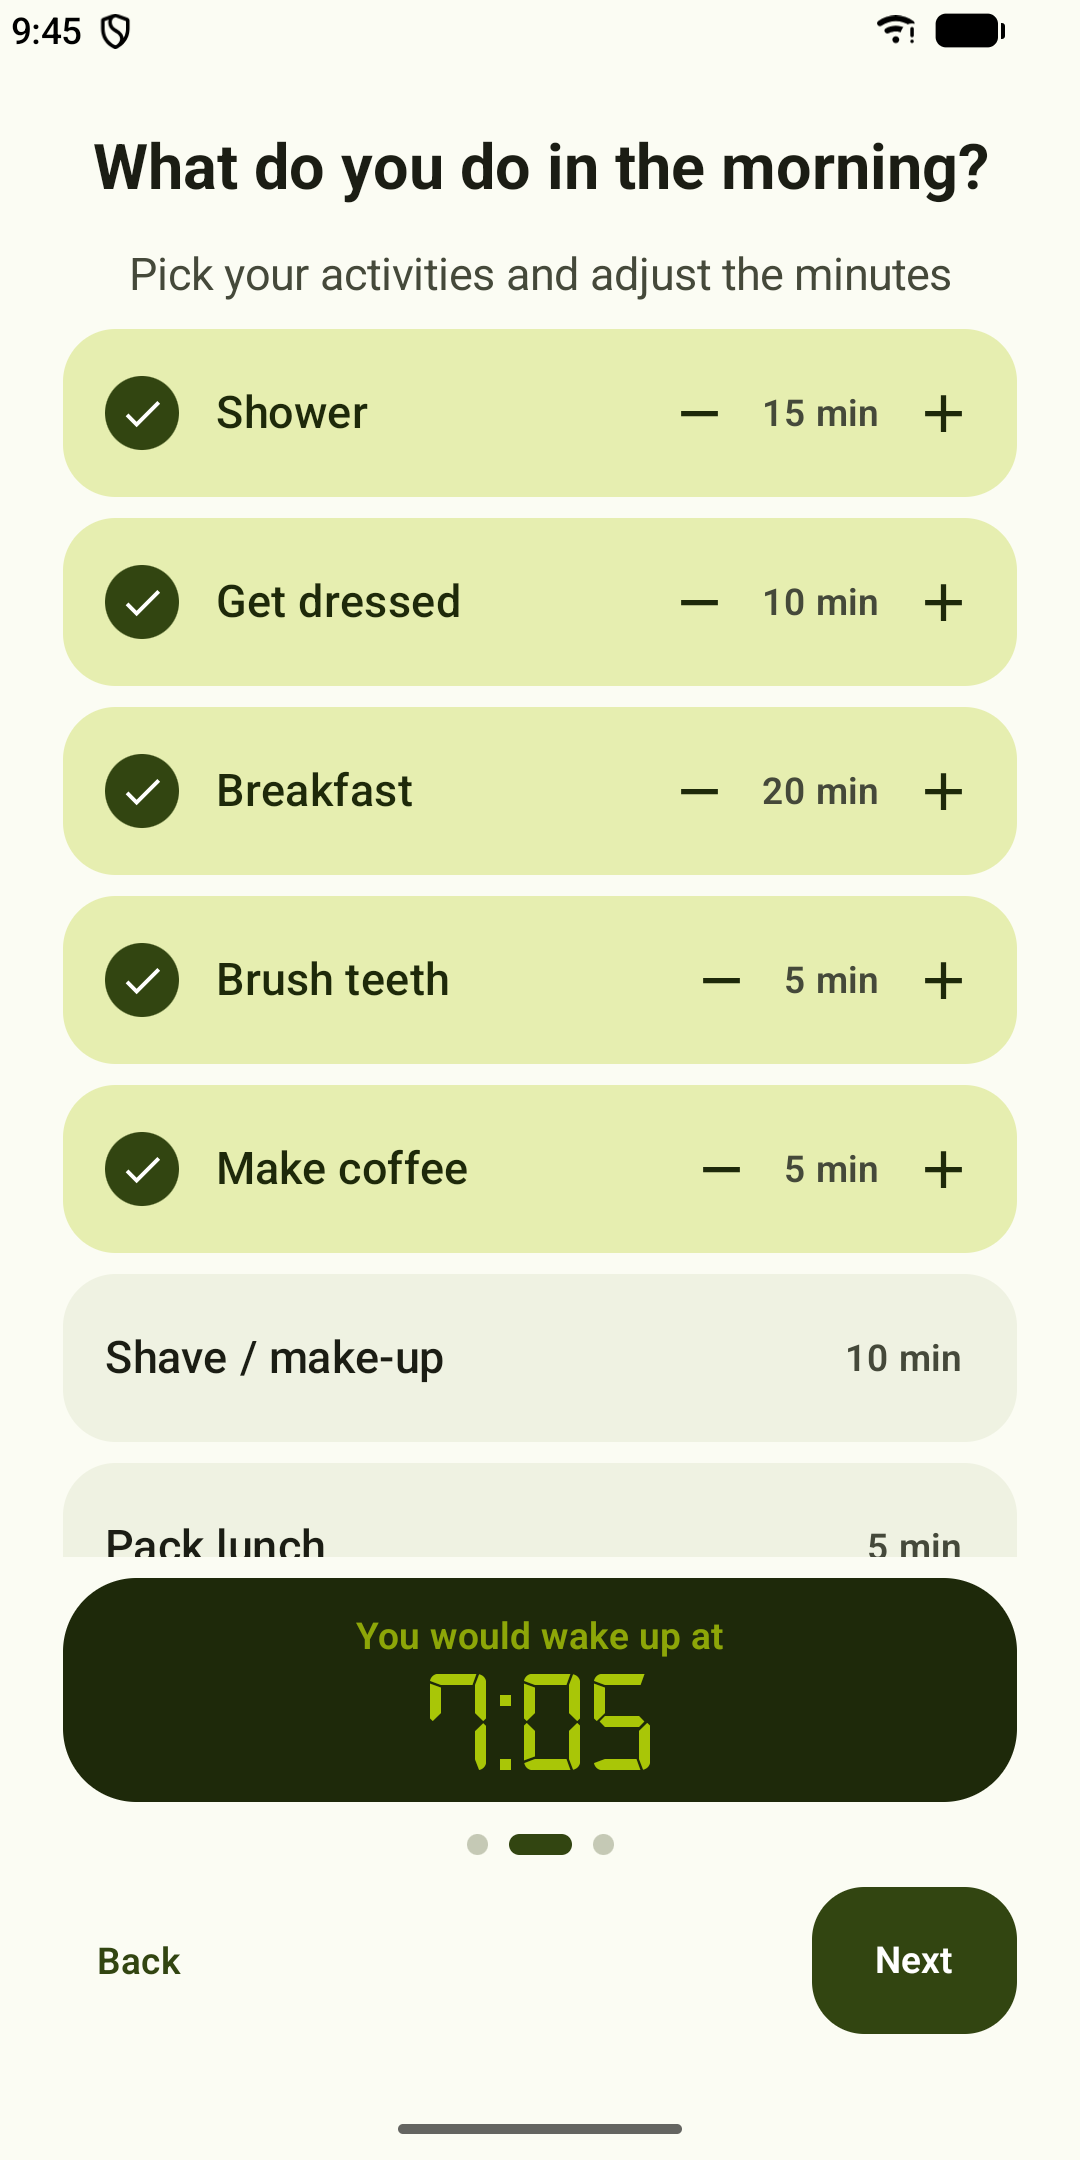
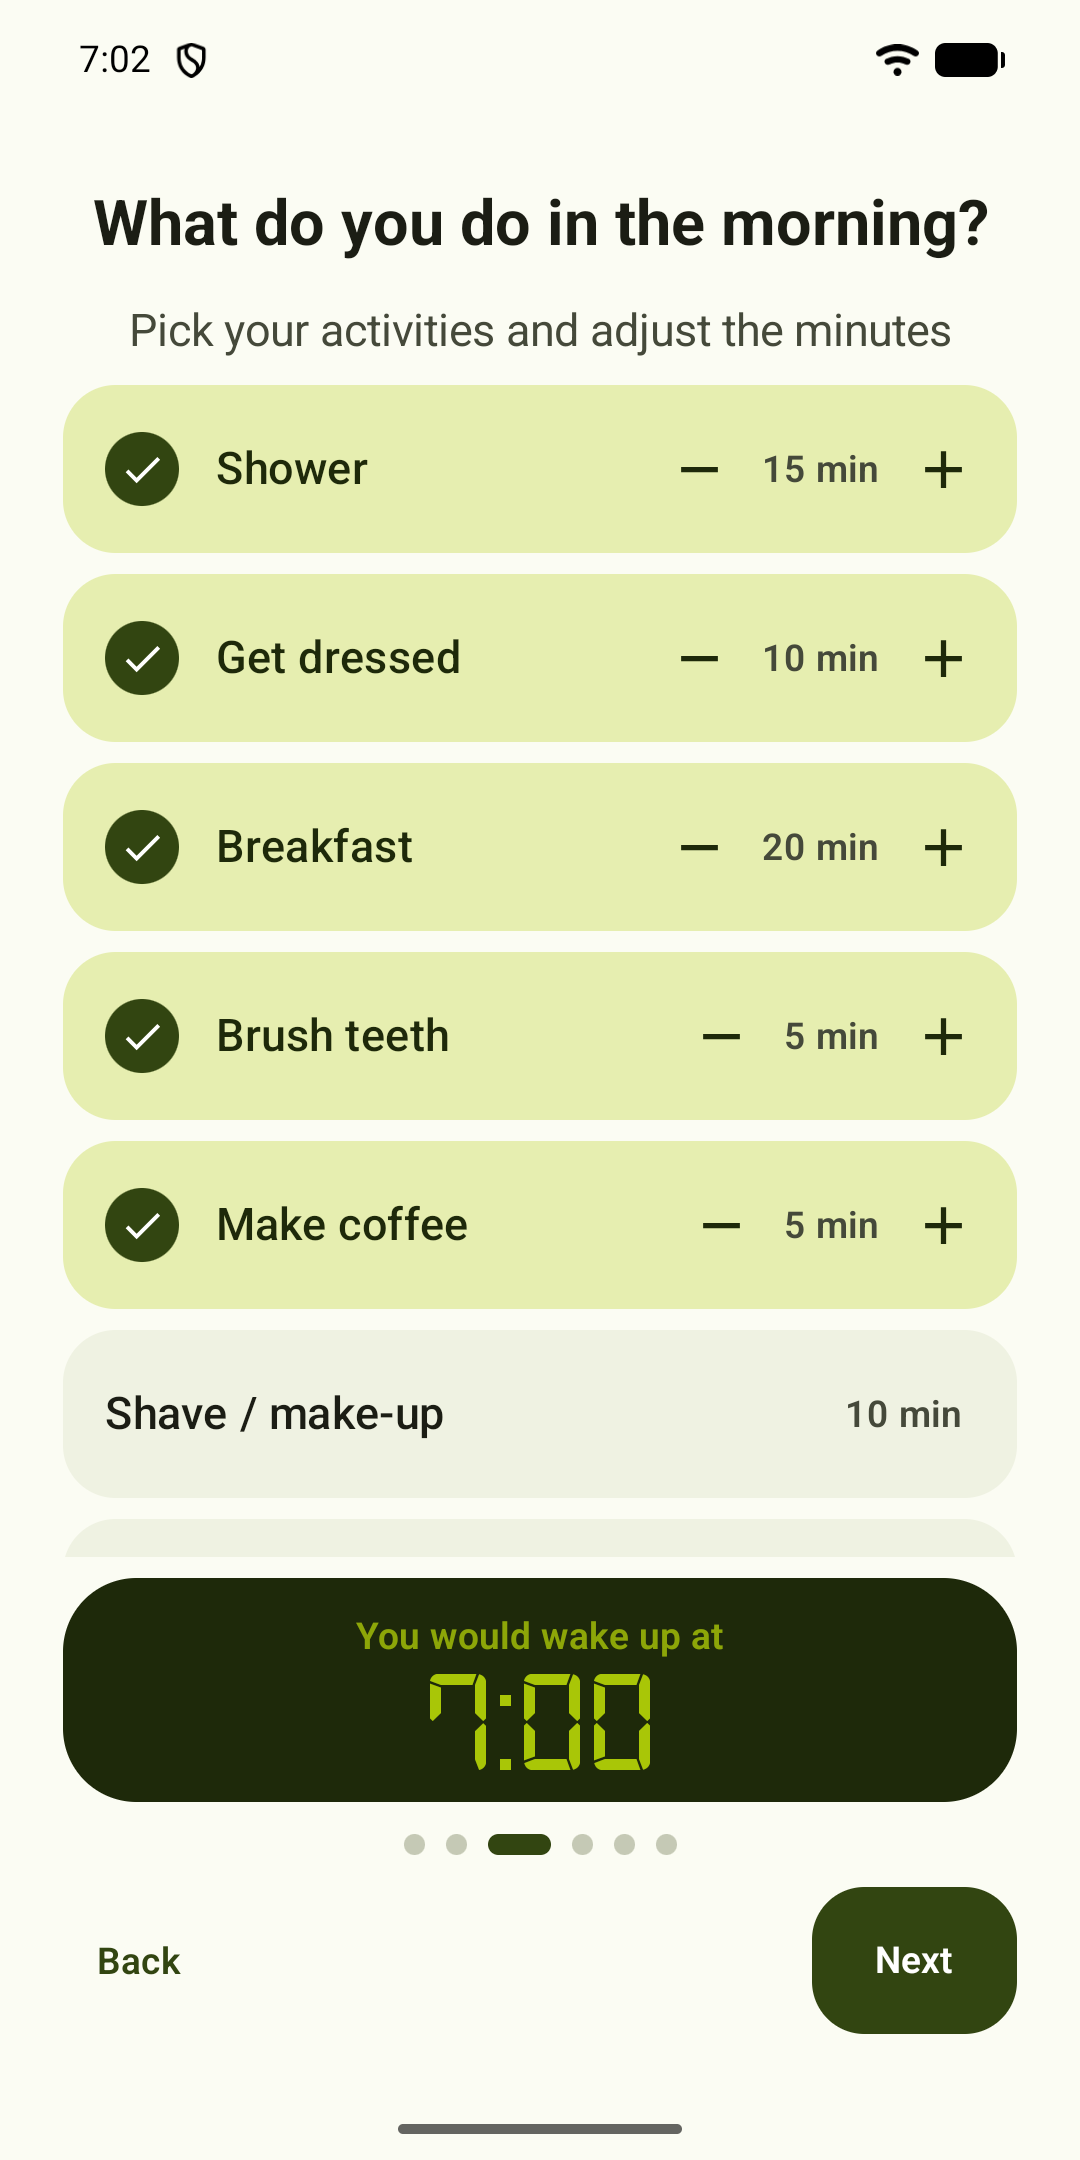
Play Store: new screenshots (8 phone, 5 tablet, it + en), 5.4 notes and README

diff --git a/play-store/README.md b/play-store/README.md
@@ -1,4 +1,4 @@
-# Play Store – materiali per Parakeet 5.3
+# Play Store – materiali per Parakeet 5.4
 
 Tutto quello che serve per compilare la scheda su Play Console. Lingue: **it-IT** (predefinita) e **en-US**.
 
@@ -11,17 +11,17 @@ Tutto quello che serve per compilare la scheda su Play Console. Lingue: **it-IT*
 | `listing/<lingua>/release-notes.txt` | Note di rilascio (max 500) |
 | `graphics/app-icon-512.png` | Icona dell'app 512×512 |
 | `graphics/feature-graphic-<it|en>.png` | Immagine di testata 1024×500 |
-| `screenshots/<lingua>/phone/` | 6 screenshot telefono 1080×2160 (rapporto 2:1) |
-| `screenshots/<lingua>/tablet/` | 4 screenshot tablet 2560×1600 (orizzontale, 16:10) |
+| `screenshots/<lingua>/phone/` | 8 screenshot telefono 1080×2160 (rapporto 2:1) |
+| `screenshots/<lingua>/tablet/` | 5 screenshot tablet 2560×1600 (orizzontale, 16:10) |
 | `privacy-policy.html` / `privacy-policy.md` | Informativa sulla privacy, italiano + inglese in un'unica pagina (stesso testo in HTML e in Markdown) |
 
-Gli screenshot sono in ordine di numero: welcome → attività → principale → sveglia puntata → tema scuro → impostazioni (i primi due non ci sono per tablet).
+Gli screenshot sono in ordine di numero: benvenuto → attività → principale → lista routine → editor routine → sveglia che suona (schermo bloccato) → tema scuro → impostazioni sveglia (benvenuto, attività e editor non ci sono per tablet).
 Lo stesso set tablet va bene sia per i 7" sia per i 10". Gli screenshot sono generati dall'app reale su emulatore con barra di stato pulita.
 
 ## Privacy policy: va pubblicata online
 Play richiede un URL pubblico. Carica `privacy-policy.html` sul tuo sito (ad es. `https://www.marcozanetti.it/parakeet/privacy.html`) e incolla l'URL in *App content → Privacy policy*. Non l'ho pubblicata io. Contiene il tuo indirizzo e-mail (lo stesso già presente nella schermata Info dell'app): cambialo se preferisci un altro contatto.
 
-## Risposte pronte per Play Console (5.3)
+## Risposte pronte per Play Console (5.4)
 **Data safety**
 - Raccoglie o condivide dati? **No** (nessun permesso INTERNET; la sincronizzazione scrive solo in una cartella scelta dall'utente, la fotocamera è usata solo sul dispositivo).
 - Dati cifrati in transito: non applicabile. Richiesta di cancellazione: non applicabile (nessun dato raccolto).
@@ -31,7 +31,7 @@ Play richiede un URL pubblico. Carica `privacy-policy.html` sul tuo sito (ad es.
 - Categoria: *Strumenti* (o *Produttività*). Tag: sveglia, routine, organizzazione.
 - Classificazione contenuti: nessun contenuto sensibile (questionario IARC tutto "No").
 - Pubblico di destinazione: 13+ / tutti (non è rivolta ai bambini).
-- Target API: **36** (richiesto). Firma: stesso keystore del 2017, versionCode > 30 (ora **53** (versione 5.3)).
+- Target API: **36** (richiesto). Firma: stesso keystore del 2017, versionCode > 30 (ora **54** (versione 5.4)).
 
 **Permessi: giustificazioni**
 | Permesso | Stato su Play | Motivo da indicare |
@@ -50,5 +50,5 @@ Play richiede un URL pubblico. Carica `privacy-policy.html` sul tuo sito (ad es.
 Nota su `SCHEDULE_EXACT_ALARM`: Play lo limita alle app la cui funzione principale richiede tempi precisi (sveglie, calendari). Parakeet è una sveglia "a ritroso" e la funzione dichiarata è la notifica all'ora esatta scelta dall'utente, ma è l'unico permesso della v1 che potrebbe richiedere una risposta in Console. Se Play lo contestasse, la v1 funziona anche senza (basta toglierlo dal manifest: la notifica diventa non esatta).
 
 ## Dopo la pubblicazione
-- Se la grafica cambia, gli screenshot vanno rifatti: sono stati generati dall'app reale su emulatore (non c'è uno script nel repo).
-- La 5.3 richiede le dichiarazioni in Console su allarme esatto, schermo intero e servizio in primo piano (video dimostrativo: impostazioni → "Prova la sveglia" → schermata di spegnimento). Compaiono in *Contenuti app* solo **dopo** aver caricato un AAB che dichiara i permessi (crea la release in bozza, compila le dichiarazioni, poi invia). Vedi `docs/analysis.md`. In Data safety: nessun dato raccolto o condiviso (la fotocamera è usata solo sul dispositivo).
+- Se la grafica cambia, gli screenshot vanno rifatti: sono generati dalla build release sull'emulatore (telefono con `wm size 1080x2160`, barra di stato in modalità demo `sysui_demo_allowed`, ora 9:45 / mattina), non c'è uno script nel repo.
+- La 5.4 richiede le dichiarazioni in Console su allarme esatto, schermo intero e servizio in primo piano (video dimostrativo: impostazioni → "Prova la sveglia" → schermata di spegnimento). Compaiono in *Contenuti app* solo **dopo** aver caricato un AAB che dichiara i permessi (crea la release in bozza, compila le dichiarazioni, poi invia). Vedi `docs/analysis.md`. In Data safety: nessun dato raccolto o condiviso (la fotocamera è usata solo sul dispositivo).
